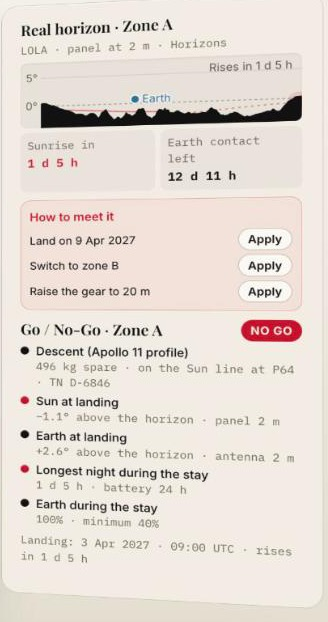
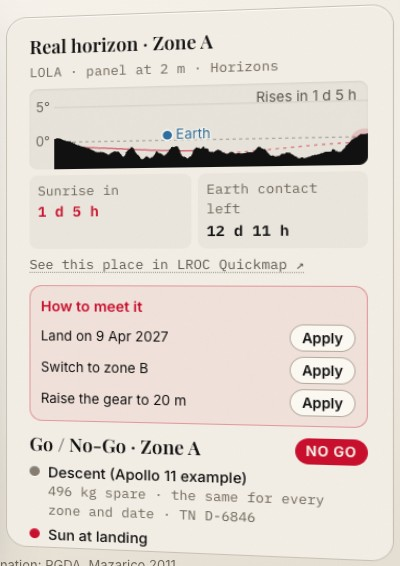
fix: screen audit - honest layers and descent, a seeded comparison, corrected claims
From a read-only audit of every screen against the challenge goals:
- Planner: the slope and mean-light overlays are drawn over generated relief, so they start
  off and are labelled as illustrative; the shadow tag with no layer is gone. The descent row
  says it is an Apollo 11 example, the same for every zone and date, and no longer shows as a
  passed check. When sunlight outlasts the 90-day window the horizon view says 'Sun: over
  60 d' instead of a sunset that does not exist.
- Compare is a labelled button and opens with two rows ready: the planned date and the
  current scenario.
- A point sent from the 3D map keeps its name in the planner.
- /planner still opens Missions (team decision, #15); /planner#missions is an alias, and the
  demo and README now point at /planner#landing for the comparison they show.
- Landing: the top bar with the way into the app appears after 1.6 s instead of 6.2 s. Four
  claims reworded so they match what the docs support.
- Demo: touchdown stated as within 5 s of the report; cover and planner screenshots retaken
  with the current interface, without a pointer.

diff --git a/prototipos/lunar-map/index.html b/prototipos/lunar-map/index.html
@@ -179,6 +179,9 @@ a.brand { color: inherit; text-decoration: none; }
 .dlg-grid label.chk { flex-direction: row; align-items: center; gap: 8px; color: var(--tinta); font-size: var(--t-small); }
 .dlg-acts { display: flex; gap: 10px; align-items: center; }
 /* comparación de escenarios (hasta 6), como la del planificador del equipo (docs/04, sección 2) */
+/* título de las zonas con «Compare» y «Link» a su derecha; si no caben, bajan de línea */
+.hdrow { display: flex; align-items: center; justify-content: space-between; flex-wrap: wrap; gap: 4px 8px; }
+.hdbtns { display: inline-flex; gap: 4px; }
 .scrow { display: flex; align-items: center; justify-content: space-between; gap: 8px; min-width: 0; }
 .scrow .scbtn { flex: 1; min-width: 0; }
 .cmpbtn { flex: none; display: inline-flex; align-items: center; gap: 4px; height: 24px; padding: 0 8px; border: 1px solid var(--borde-2); border-radius: 999px; background: var(--crema-2); color: var(--tinta); font-family: var(--f-mono); font-size: var(--t-label); cursor: pointer; }
@@ -221,7 +224,7 @@ button.tag[aria-pressed="true"]#chipPt { background: var(--crema); color: var(--
 
   <div class="stage">
     <section class="paper side l" aria-labelledby="cand-t">
-      <div class="hd"><h2 id="cand-t" class="disp">Candidate zones</h2><div class="scrow"><button type="button" class="scbtn" id="scBtn" aria-haspopup="dialog"><svg width="12" height="12" viewBox="0 0 24 24" fill="none" stroke="currentColor" stroke-width="2.2" stroke-linecap="round" stroke-linejoin="round" aria-hidden="true"><path d="M4 20h4L19 9l-4-4L4 16v4z"></path></svg><span id="scTxt">—</span></button><button type="button" class="cmpbtn" id="cmpBtn" aria-haspopup="dialog" title="Compare scenarios (up to 6)"><svg width="12" height="12" viewBox="0 0 24 24" fill="none" stroke="currentColor" stroke-width="2.2" stroke-linecap="round" aria-hidden="true"><path d="M4 6h16M4 12h16M4 18h10"></path></svg><span id="cmpN">0</span></button><button type="button" class="cmpbtn" id="shareBtn" title="Copy a link to this zone and scenario"><svg width="12" height="12" viewBox="0 0 24 24" fill="none" stroke="currentColor" stroke-width="2.2" stroke-linecap="round" stroke-linejoin="round" aria-hidden="true"><path d="M10 14a4 4 0 0 0 5.7 0l3-3a4 4 0 0 0-5.7-5.7l-1 1"></path><path d="M14 10a4 4 0 0 0-5.7 0l-3 3a4 4 0 0 0 5.7 5.7l1-1"></path></svg><span id="shareTxt">Link</span></button></div></div>
+      <div class="hd"><div class="hdrow"><h2 id="cand-t" class="disp">Candidate zones</h2><span class="hdbtns"><button type="button" class="cmpbtn" id="cmpBtn" aria-haspopup="dialog" title="Compare scenarios (up to 6)"><svg width="12" height="12" viewBox="0 0 24 24" fill="none" stroke="currentColor" stroke-width="2.2" stroke-linecap="round" aria-hidden="true"><path d="M4 6h16M4 12h16M4 18h10"></path></svg><span>Compare</span><span id="cmpN">0</span></button><button type="button" class="cmpbtn" id="shareBtn" title="Copy a link to this zone and scenario"><svg width="12" height="12" viewBox="0 0 24 24" fill="none" stroke="currentColor" stroke-width="2.2" stroke-linecap="round" stroke-linejoin="round" aria-hidden="true"><path d="M10 14a4 4 0 0 0 5.7 0l3-3a4 4 0 0 0-5.7-5.7l-1 1"></path><path d="M14 10a4 4 0 0 0-5.7 0l-3 3a4 4 0 0 0 5.7 5.7l1-1"></path></svg><span id="shareTxt">Link</span></button></span></div><div class="scrow"><button type="button" class="scbtn" id="scBtn" aria-haspopup="dialog"><svg width="12" height="12" viewBox="0 0 24 24" fill="none" stroke="currentColor" stroke-width="2.2" stroke-linecap="round" stroke-linejoin="round" aria-hidden="true"><path d="M4 20h4L19 9l-4-4L4 16v4z"></path></svg><span id="scTxt">—</span></button></div></div>
       <div class="slip" id="slip">
         <p class="slip-msg" id="slipMsg" aria-live="polite"></p>
         <div class="slip-row" role="group" aria-label="Move the landing date">
@@ -299,9 +302,9 @@ button.tag[aria-pressed="true"]#chipPt { background: var(--crema); color: var(--
         </svg>
         <div class="fx" aria-hidden="true"><div class="sweep"></div><div class="scan"></div><div class="vig"></div><div class="refl"></div><div class="bloom"></div></div>
         <div class="chips">
-          <button type="button" class="tag" id="chipHaz" aria-pressed="true"><span class="sw" style="background: var(--alerta)"></span>Slope &gt; 15°</button>
-          <button type="button" class="tag" id="chipLight" aria-pressed="true"><span class="sw" style="background: var(--amarillo)"></span>High mean light</button>
-          <span class="tag"><span class="sw" style="background: #000; border: 1px solid rgba(244,239,230,0.6)"></span>Permanent shadow</span>
+          <span class="tag" title="These two overlays are drawn over generated relief to illustrate. They are not measurements, and the verdict does not use them.">Illustrative layers</span>
+          <button type="button" class="tag" id="chipHaz" aria-pressed="false"><span class="sw" style="background: var(--alerta)"></span>Slope &gt; 15°</button>
+          <button type="button" class="tag" id="chipLight" aria-pressed="false"><span class="sw" style="background: var(--amarillo)"></span>High mean light</button>
           <button type="button" class="tag" id="chipPt" aria-pressed="false" aria-haspopup="dialog"><svg width="12" height="12" viewBox="0 0 24 24" fill="none" stroke="currentColor" stroke-width="2.2" stroke-linecap="round" aria-hidden="true"><circle cx="12" cy="12" r="6"></circle><path d="M12 2v4M12 18v4M2 12h4M18 12h4"></path></svg><span id="chipPtTxt">Own point</span></button>
         </div>
         <div class="telem mono" id="telem" aria-live="off">
@@ -432,7 +435,7 @@ button.tag[aria-pressed="true"]#chipPt { background: var(--crema); color: var(--
     C: { name: 'Shackleton rim · RoI 4', pos: [407, 322], track: 'M20 560 C 160 520, 300 410, 407 322' }
   };
   var col = { ok: '#111111', warn: '#857D72', fail: '#C8102E' };
-  var state = { site: 'A', simulated: false, confirmed: false, haz: true, light: true, running: false };
+  var state = { site: 'A', simulated: false, confirmed: false, haz: false, light: false, running: false };   /* las capas son ilustrativas (relieve generado): apagadas al abrir */
 
   /* ---------- escenario: por defecto, el plan de CR-01; editable y recordado en este navegador ----------
    * Requisitos como en el planificador del equipo (model/evaluate.ts): Sol y Tierra a la vista al aterrizar, la noche más
@@ -464,6 +467,8 @@ button.tag[aria-pressed="true"]#chipPt { background: var(--crema); color: var(--
     if (has('z')) out.zone = q.get('z').toUpperCase();
     if (has('site')) out.site = q.get('site');
     if (has('lat') && has('lon') && isFinite(+q.get('lat')) && isFinite(+q.get('lon'))) out.pt = { lat: +q.get('lat'), lon: ((+q.get('lon') % 360) + 360) % 360 };
+    /* nombre del punto (lo manda el mapa 3D): solo letras, cifras y puntuación simple, porque se pinta en la página */
+    if (has('name')) out.name = q.get('name').replace(/[^0-9A-Za-zÀ-ÿ .,'()\-]/g, '').trim().slice(0, 40);
     return out.sc || out.zone || out.site || out.pt ? out : null;
   }
   var link = readLink();
@@ -568,7 +573,7 @@ button.tag[aria-pressed="true"]#chipPt { background: var(--crema); color: var(--
   function pick(id) { state.site = id; state.simulated = false; state.confirmed = false; stopSim(); tlT = null; render(); }
 
   /* ---------- Go / No-Go: el descenso (perfil del Apollo 11) y los requisitos del escenario ---------- */
-  var DESC = ['Descent (Apollo 11 profile)', '496 kg spare · on the Sun line at P64', 'TN D-6846', 'ok'];
+  var DESC = ['Descent (Apollo 11 example)', '496 kg spare · the same for every zone and date', 'TN D-6846', 'warn'];
   function checkRows(e) {
     var l = e.landing, rows = [DESC];
     e.checks.forEach(function (c) {
@@ -758,7 +763,9 @@ button.tag[aria-pressed="true"]#chipPt { background: var(--crema); color: var(--
     o += '<path d="' + d + ' L' + W + ',' + H + ' Z" class="sil"></path>' + labels;
     if (e[1] > lo && dentro(p.tierra, tlT)) o += '<text x="' + (X(e[0]) + 8).toFixed(1) + '" y="' + (ey(e[1]) + 4).toFixed(1) + '" class="tierra-t">Earth</text>';
     var nx = sunNext(p, tlT);
-    o += '<text x="' + (W - 10) + '" y="18" text-anchor="end">' + (nx ? (nx[0] === 'rises' ? 'Rises in ' : 'Sets in ') + dur(nx[1]) : 'No change in the period') + '</text>';
+    /* si la ventana de Sol llega al final de los 90 días, la puesta no se conoce: «más de», como en drawLeft */
+    var abierta = nx && nx[0] === 'sets' && Math.abs(tlT + nx[1] - DAYS) < 0.05;
+    o += '<text x="' + (W - 10) + '" y="18" text-anchor="end">' + (nx ? (abierta ? 'Sun: over ' : nx[0] === 'rises' ? 'Rises in ' : 'Sets in ') + dur(nx[1]) : 'No change in the period') + '</text>';
     svg.setAttribute('viewBox', '0 0 ' + W + ' ' + H);
     svg.innerHTML = '<title>360° panorama from the north. The vertical scale is exaggerated and the discs are not to scale.</title>' + o;
     $('hzZona').textContent = state.site;
@@ -862,7 +869,16 @@ button.tag[aria-pressed="true"]#chipPt { background: var(--crema); color: var(--
           '<td><button type="button" class="x" data-del="' + i + '" aria-label="Remove scenario ' + (i + 1) + '" title="Remove">×</button></td></tr>';
       }).join('') + '</tbody></table>';
   }
-  function openCmp() { lastFocus = document.activeElement; renderCmp(); cmp.hidden = false; $('cmpAdd').focus(); }
+  /* Vacía, la tabla abre ya con dos filas de la zona elegida: la fecha del plan y el escenario actual. Así comparar el
+   * plan con el cambio de fecha no pide armar nada. */
+  function seedCmp() {
+    if (cmpList.length) return;
+    var actual = curItem(); actual.sc = JSON.parse(JSON.stringify(sc));
+    var plan = curItem(); plan.sc = JSON.parse(JSON.stringify(sc)); plan.sc.landingMs = sanitize(PLAN).landingMs;
+    if (keyOf(plan) !== keyOf(actual)) cmpList.push(plan);
+    cmpList.push(actual); saveCmp();
+  }
+  function openCmp() { lastFocus = document.activeElement; seedCmp(); renderCmp(); cmp.hidden = false; $('cmpAdd').focus(); }
   function closeCmp() { cmp.hidden = true; if (lastFocus && lastFocus.focus) lastFocus.focus(); }
   $('cmpBtn').addEventListener('click', openCmp);
   $('cmpAdd').addEventListener('click', function () { if (cmpList.length < MAXC && !inCmp()) { var it = curItem(); it.sc = JSON.parse(JSON.stringify(sc)); cmpList.push(it); saveCmp(); renderCmp(); } });
@@ -878,6 +894,7 @@ button.tag[aria-pressed="true"]#chipPt { background: var(--crema); color: var(--
   /* ---------- punto propio (#8): zona P con horizonte aproximado sobre el relieve polar de LOLA ----------
    * El relieve (data/dem-polo.js, 8 MB) se carga solo al usarlo. El mapa es estereográfico polar real: polo en (444, 239),
    * 0° E arriba y 90° E a la derecha, 421,15 px por grado de colatitud (72 m/px). */
+  var ptName = (link && link.pt && link.name) || '';   /* nombre del punto, si llegó en el enlace */
   var PKEY = 'lunarmap.punto', demObj = null, demLoading = [], maskCache = {}, pt = null, picking = false;
   var PX_DEG = 421.15, POLE = [444, 239];
   function coordTxt(lat, lon) { return Math.abs(lat).toFixed(2) + '° S · ' + lon.toFixed(2) + '° E'; }
@@ -904,7 +921,7 @@ button.tag[aria-pressed="true"]#chipPt { background: var(--crema); color: var(--
   function setPoint(lat, lon, select) {
     Z.P = maskCache[lat + ',' + lon] || (maskCache[lat + ',' + lon] = E.mascaraPolar(demObj, lat, lon));
     var q = toMap(lat, lon);
-    MAP.P = { name: 'Own point', pos: [q[0], q[1]], track: 'M20 560 C 160 520, ' + (q[0] - 120).toFixed(0) + ' ' + (q[1] + 60).toFixed(0) + ', ' + q[0].toFixed(1) + ' ' + q[1].toFixed(1) };
+    MAP.P = { name: ptName || 'Own point', pos: [q[0], q[1]], track: 'M20 560 C 160 520, ' + (q[0] - 120).toFixed(0) + ' ' + (q[1] + 60).toFixed(0) + ', ' + q[0].toFixed(1) + ' ' + q[1].toFixed(1) };
     pt = { lat: lat, lon: lon };
     ids = ['A', 'B', 'C', 'P'];
     try { localStorage.setItem(PKEY, JSON.stringify(pt)); } catch (e) { /* sin almacenamiento */ }
@@ -918,6 +935,7 @@ button.tag[aria-pressed="true"]#chipPt { background: var(--crema); color: var(--
     drawPoint(); apply();
   }
   function usePoint(lat, lon) {
+    ptName = '';   /* un punto elegido a mano ya no es el que llegó con nombre */
     if (!isFinite(lat) || !isFinite(lon)) { $('pMsg').textContent = 'Enter the latitude and longitude.'; return false; }
     if (!E.dentroDelDominio(lat, lon)) { var p = E.estereoSur(lat, lon); $('pMsg').textContent = 'Out of range: the point is ' + Math.round(Math.hypot(p[0], p[1]) / 1000) + ' km from the pole (maximum 190 km).'; return false; }
     $('pMsg').textContent = 'Loading the LOLA terrain (8 MB) and computing the horizon…';

diff --git a/apps/web/src/features/landing/content.ts b/apps/web/src/features/landing/content.ts
@@ -6,7 +6,7 @@
  * `apps/web/scripts/build-landing-data.ts` con el motor validado y los datos de la NASA. Las demás cifras citan su
  * documento en `docs/`.
  */
-import { plannerPath, routes } from "@/app/routes"
+import { missionsPath, plannerPath, routes } from "@/app/routes"
 import { tr } from "@/shared/i18n"
 import facts from "./flight/data/facts.json"
 
@@ -86,7 +86,7 @@ export const actions = {
 /** La barra superior lleva a las pantallas de la aplicación. */
 export const nav = [
   { label: tr("Planner", "Planificador"), to: plannerPath() },
-  { label: tr("Missions", "Misiones"), to: routes.lunarMap },
+  { label: tr("Missions", "Misiones"), to: missionsPath },
   { label: tr("3D Map", "Mapa 3D"), to: routes.map3d },
 ]
 
@@ -231,7 +231,7 @@ export const hud = {
  * (sections/data/sky.json, product.json y catalog.json).
  */
 export const software = {
-  title: tr("The planner's engine, live on this page.", "El motor del planificador, en vivo en esta página."),
+  title: tr("The planner's views, right on this page.", "Las vistas del planificador, en esta misma página."),
   body: tr(
     `Not a screenshot. These are the planner's own views running on real ephemeris and terrain: one lunar day at ${featured.name}, from 1 December 2026. Move the date and watch the plan respond.`,
     `No es una captura. Son las vistas del propio planificador, funcionando con efemérides y relieve reales: un día lunar en ${featured.name}, desde el 1 de diciembre de 2026. Mueve la fecha y mira cómo responde el plan.`,
@@ -394,8 +394,8 @@ export const product = {
       verb: tr("Learn", "Aprende"),
       question: tr("Why did the plan change?", "¿Por qué cambió el plan?"),
       body: tr(
-        "Ask the AI assistant. It explains the figures the engine computed and cites its sources; it never invents a number. EVA, the guide robot, walks you through the planner step by step.",
-        "Pregúntale al asistente de IA. Explica las cifras que calculó el motor y cita sus fuentes; nunca inventa un número. EVA, el robot guía, te lleva por el planificador paso a paso.",
+        "Ask the AI assistant. It explains the figures the engine computed and cites its sources; it is instructed never to invent a number, and the figures on screen are the reference. EVA, the guide robot, walks you through the planner step by step.",
+        "Pregúntale al asistente de IA. Explica las cifras que calculó el motor y cita sus fuentes; tiene la instrucción de no inventar números, y las cifras en pantalla son la referencia. EVA, el robot guía, te lleva por el planificador paso a paso.",
       ),
       action: null,
     },
@@ -435,8 +435,8 @@ export const audience = {
 export const validation = {
   title: tr("Checked against the record.", "Comprobado con fuentes externas."),
   body: tr(
-    "A fast replan is only useful if its numbers hold. Every calculation is tested against an independent source. The suite ran on 14 November 2026.",
-    "Replanificar rápido solo sirve si los números se sostienen. Cada cálculo se prueba contra una fuente independiente. La suite corrió el 14 de noviembre de 2026.",
+    "A fast replan is only useful if its numbers hold. The key calculations are checked against an independent source. The suite ran on 14 November 2026.",
+    "Replanificar rápido solo sirve si los números se sostienen. Los cálculos clave se comprueban contra una fuente independiente. La suite corrió el 14 de noviembre de 2026.",
   ),
   moreLabel: tr("All checks and stated limits", "Todas las comprobaciones y los límites declarados"),
   /** docs/04-planificador.md (sección 5), docs/07-pruebas-y-validacion.md y luna-recursos/LEEME.md. */
@@ -556,7 +556,7 @@ export const sources = {
         },
         {
           name: tr("LROC NAC terrain model, Apollo 17, 2 m", "Modelo de terreno LROC NAC, Apollo 17, 2 m"),
-          detail: tr("Arizona State University for NASA. The detailed scene of the simulator.", "Arizona State University para la NASA. La escena detallada del simulador."),
+          detail: tr("Arizona State University for NASA. The detailed scene used to validate the engine.", "Arizona State University para la NASA. La escena detallada con la que se validó el motor."),
           href: "https://pds.lroc.im-ldi.com/data/LRO-L-LROC-5-RDR-V1.0/LROLRC_2001/DATA/SDP/NAC_DTM/APOLLO17_2M/",
         },
       ],

diff --git a/apps/web/public/demo.html b/apps/web/public/demo.html
@@ -146,7 +146,7 @@
           <li>One click moves the landing a day or a week, or returns to the plan.</li>
         </ul>
       </div>
-      <figure><img src="demo/planner.jpg" alt="The planner: three candidate zones with their verdicts for a landing moved to 3 April 2027, a polar map, the real horizon and a timeline"><figcaption>signal-horizon.goberna.us/planner · zones from NASA's 5 m south pole terrain models (Barker et al. 2021)</figcaption></figure>
+      <figure><img src="demo/planner.jpg" alt="The planner: three candidate zones with their verdicts for a landing moved to 3 April 2027, a polar map, the real horizon and a timeline"><figcaption>signal-horizon.goberna.us/planner#landing · zones from NASA's 5 m south pole terrain models (Barker et al. 2021)</figcaption></figure>
     </div>
     <div class="foot"><span>Plan and requirements are an example; every figure is computed</span><span></span></div>
   </div>
@@ -204,7 +204,7 @@
         <tbody>
           <tr><td><b>JPL Horizons</b>, DE441 ephemeris, 2026 to 2030</td><td>Where the Sun and Earth are, from any site and date</td><td>Against Horizons queried directly for two sites: worst difference <span class="n">0.0065°</span></td></tr>
           <tr><td><b>LRO LOLA</b> terrain: 5 m south pole models (PGDA) and 240 m polar grid</td><td>The real horizon of each site</td><td>Sunlight at Connecting Ridge over 18.6 years: <span class="n">36.6%</span>, published maps give <span class="n">38.5%</span> (Mazarico et al. 2011)</td></tr>
-          <tr><td><b>NASA TN D-6846</b>, Apollo 11 descent plan</td><td>Example vehicle for the descent simulation</td><td>Touchdown at <span class="n">712 s</span>; the report plans <span class="n">714 s</span></td></tr>
+          <tr><td><b>NASA TN D-6846</b>, Apollo 11 descent plan</td><td>Example vehicle for the descent simulation</td><td>Touchdown within <span class="n">5 s</span> of the <span class="n">714 s</span> in the report</td></tr>
           <tr><td><b>NSSDCA</b> landing records, <b>Blue Marble</b></td><td>The 62 sites and the Earth of the 3D Moon</td><td>A script compares the map with the NASA catalogues</td></tr>
         </tbody>
       </table>

diff --git a/apps/web/src/features/lunar-map/LunarMapPage.tsx b/apps/web/src/features/lunar-map/LunarMapPage.tsx
@@ -9,13 +9,14 @@ import "./lunarMap.css"
  * el marco: un iframe de `/lunar-map/inicio.html`. La ruta de React (`/planner`) y la carpeta estática (`/lunar-map/`)
  * son distintas a propósito para que no choquen. No se copia a `public/`: la única fuente es `prototipos/lunar-map/`.
  *
- * `/planner` abre "Missions" (la campaña de ejemplo). `/planner#landing` abre directamente el planificador, `/planner#walk` su paso 2 (la caminata, concepto), y
+ * `/planner` (y `/planner#missions`) abre "Missions", la campaña de ejemplo: el equipo decidió que "Open the planner" pase
+ * primero por ahí (PR #15). `/planner#landing` abre directamente el planificador, `/planner#walk` su paso 2 (la caminata), y
  * `/planner#z=B&t=2027-04-03T09:00&…` lo abre con ese escenario: es el enlace que da el botón "Link" del planificador
  * y el que usan el mapa 3D y el escritorio de misiones para llevar un lugar o una misión (ver `plannerPath`).
  */
 export function LunarMapPage() {
   const { hash } = useLocation()
-  const src = !hash ? "/lunar-map/inicio.html" : hash === "#walk" ? "/lunar-map/planificar.html" : `/lunar-map/index.html${hash === "#landing" ? "" : hash}`
+  const src = !hash || hash === "#missions" ? "/lunar-map/inicio.html" : hash === "#walk" ? "/lunar-map/planificar.html" : `/lunar-map/index.html${hash === "#landing" ? "" : hash}`
   return (
     <section className="screen lunar-map" aria-label={tr("Missions and landing planner", "Misiones y planificador de alunizaje")}>
       <iframe

diff --git a/prototipos/lunar-map/i18n-es.js b/prototipos/lunar-map/i18n-es.js
@@ -281,3 +281,18 @@ LunarI18n.add({
     "Opens NASA's LROC Quickmap centred on this place, in south polar projection": 'Abre LROC Quickmap de la NASA centrado en este lugar, en proyección polar sur'
   }
 });
+
+/* añadidos tras la auditoría de pantallas (2026-11-15) */
+LunarI18n.add({
+  exact: {
+    'Compare': 'Comparar',
+    'Illustrative layers': 'Capas ilustrativas',
+    'These two overlays are drawn over generated relief to illustrate. They are not measurements, and the verdict does not use them.': 'Estas dos capas se dibujan sobre relieve generado, para ilustrar. No son mediciones y el veredicto no las usa.',
+    'Descent (Apollo 11 example)': 'Descenso (ejemplo del Apollo 11)',
+    '496 kg spare · the same for every zone and date · TN D-6846': 'sobran 496 kg · igual para toda zona y fecha · TN D-6846'
+  },
+  patterns: [
+    [/^Sun: over (\d+ h|\d+ d \d+ h)$/, 'Sol: más de $1']
+  ]
+});
+

diff --git a/apps/web/src/features/landing/landing.css b/apps/web/src/features/landing/landing.css
@@ -138,10 +138,11 @@
 
 /* --- Barra superior ----------------------------------------------------------------------------------------- */
 
-/* En la entrada de la portada (pantalla negra) la barra espera a que el negro se retire. */
+/* En la entrada de la portada (pantalla negra) la barra entra pronto: es el único camino al planificador desde el
+   primer pantallazo (antes esperaba 6,2 s a que el negro se retirara, y un juez puede no esperar tanto). */
 @media (prefers-reduced-motion: no-preference) {
   .ln:has(.fl__limb) .ln-bar {
-    animation: ln-bar-in 800ms var(--ease) 6200ms both;
+    animation: ln-bar-in 800ms var(--ease) 1600ms both;
   }
 
   :root:not([data-intro]) .ln:has(.fl__limb) .ln-bar {

diff --git a/apps/web/public/mapa-3d.html b/apps/web/public/mapa-3d.html
@@ -1243,6 +1243,8 @@ function abrirEnPlanificador(f) {
   const lat = f.sitio ? f.sitio.lat : f.iau ? f.iau.lat : f.lat, lon = f.sitio ? f.sitio.lon : f.iau ? f.iau.lon : f.lon
   const q = new URLSearchParams({ lat: lat.toFixed(5), lon: (((lon % 360) + 360) % 360).toFixed(5), t: new Date(ahoraMs).toISOString().slice(0, 16) })
   if (f.sitio?.id) q.set('site', f.sitio.id)
+  const nombre = f.sitio?.nombre ?? f.iau?.n
+  if (nombre) q.set('name', nombre)   // el planificador lo muestra en lugar de «Own point»
   const url = '/planner#' + q
   try { window.top.location.href = url } catch { window.location.href = url }
 }

diff --git a/apps/web/scripts/mapa-3d/mapa.src.html b/apps/web/scripts/mapa-3d/mapa.src.html
@@ -1243,6 +1243,8 @@ function abrirEnPlanificador(f) {
   const lat = f.sitio ? f.sitio.lat : f.iau ? f.iau.lat : f.lat, lon = f.sitio ? f.sitio.lon : f.iau ? f.iau.lon : f.lon
   const q = new URLSearchParams({ lat: lat.toFixed(5), lon: (((lon % 360) + 360) % 360).toFixed(5), t: new Date(ahoraMs).toISOString().slice(0, 16) })
   if (f.sitio?.id) q.set('site', f.sitio.id)
+  const nombre = f.sitio?.nombre ?? f.iau?.n
+  if (nombre) q.set('name', nombre)   // el planificador lo muestra en lugar de «Own point»
   const url = '/planner#' + q
   try { window.top.location.href = url } catch { window.location.href = url }
 }

diff --git a/apps/web/src/app/routes.ts b/apps/web/src/app/routes.ts
@@ -21,5 +21,8 @@ export const routes = {
 export const plannerPath = (scenario?: Record<string, string | number>) =>
   `${routes.lunarMap}#${scenario ? new URLSearchParams(Object.entries(scenario).map(([k, v]) => [k, String(v)])).toString() : "landing"}`
 
+/** "Missions": la campaña de ejemplo del prototipo. Es también lo que abre `/planner` a secas. */
+export const missionsPath = `${routes.lunarMap}#missions`
+
 /** La ruta del planificador de una misión. */
 export const missionPath = (missionId: string) => `${routes.missionPlanner}/${encodeURIComponent(missionId)}`

diff --git a/apps/web/src/features/lunar-map/CLAUDE.md b/apps/web/src/features/lunar-map/CLAUDE.md
@@ -2,7 +2,7 @@
 
 Lo que abre el botón "Open the planner" de la landing: el Dashboard y el Planificador de `prototipos/lunar-map/`, a pantalla completa y en inglés.
 
-- **Qué hay:** `LunarMapPage` es solo un iframe. `/planner` abre `/lunar-map/inicio.html` (Missions, la campaña de ejemplo); `/planner#landing` abre el planificador (`index.html`), `/planner#walk` la caminata, y `/planner#z=B&t=2027-04-03T09:00&stay=3&…` el planificador con ese escenario (`plannerPath()` en `app/routes.ts`; claves: `z`, `t`, `stay`, `panel`, `antenna`, `battery`, `earth`, `sun`, `el`, `site`, `lat`, `lon`). Así llegan el botón "Link" del planificador, el mapa 3D y el escritorio de misiones.
+- **Qué hay:** `LunarMapPage` es solo un iframe. `/planner` (y `/planner#missions`) abre `/lunar-map/inicio.html` (Missions, la campaña de ejemplo); `/planner#landing` abre el planificador (`index.html`), `/planner#walk` la caminata, y `/planner#z=B&t=2027-04-03T09:00&stay=3&…` el planificador con ese escenario (`plannerPath()` en `app/routes.ts`; claves: `z`, `t`, `stay`, `panel`, `antenna`, `battery`, `earth`, `sun`, `el`, `site`, `lat`, `lon`, `name`). Así llegan el botón "Link" del planificador, el mapa 3D y el escritorio de misiones.
 - **Idioma:** las páginas siguen el idioma de la app (`horizon-signai.lang`) con `prototipos/lunar-map/i18n.js` y sus diccionarios `i18n-es*.js`. Un texto nuevo en esas páginas necesita su entrada en el diccionario.
 - **EVA:** el planificador expone `LunarPlanner.text()` y `LunarPlanner.run(orden)` para la asistente (ver `features/assistant/CLAUDE.md`).
 - **Antes:** `LunarMapPage` era un iframe fijo a `/lunar-map/inicio.html`. No suma nada al bundle y la pantalla se carga de forma diferida (`router.tsx`).

diff --git a/docs/11-flujo-y-arquitectura.md b/docs/11-flujo-y-arquitectura.md
@@ -41,7 +41,7 @@ Landing (/)  ──►  Dashboard (/dashboard)  ──►  Planificador (/planif
 | `MissionRow` (misión + lugar + evaluación) | `shared/planning/hooks.ts` | Dashboard, Planificador |
 | `MissionContext`, `AssistantRequest`, `AssistantReply` | `packages/shared/src/assistant.ts` | IA (web y API) |
 | `AssistantDock({ mode, context })` | `features/assistant/AssistantDock.tsx` | ya montado en el escritorio; el simulador lo monta con `mode="educational"` |
-| Ruta del simulador con misión | `/simulador?mission=<id>` | el botón "Simulate this landing" del Planificador |
+| Ruta del planificador con un escenario | `/planner#z=…&t=…&stay=…` (`plannerPath()` en `app/routes.ts`) | el botón "Compare zones and dates" del detalle de misión, "Compare in the planner" del mapa 3D y "Link" del planificador. La pantalla `/simulador` todavía no existe (muestra "SOON" y no se enlaza) |
 
 ## Estado al 2026-11-15
 
